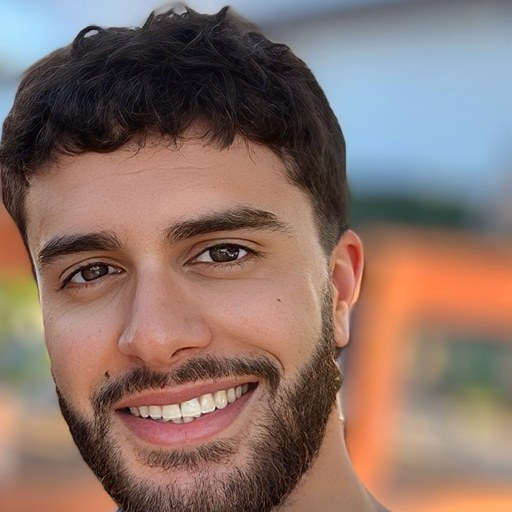
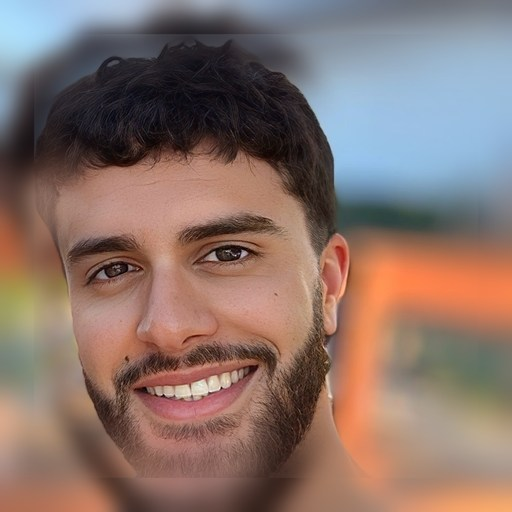
zoom out headshot, nudge it right, fix stale Resume link
- Headshot: zoomed out ~14% with a feathered blur fill so the head has
  breathing room in the circle (no hard seam; second person still out).
- Nudge the About avatar right with a negative right margin.
- About "Resume" line was stale placeholder text; the PDF is in the repo,
  so link it properly.

diff --git a/assets/css/style.css b/assets/css/style.css
@@ -993,7 +993,7 @@ pre code {
   border: 2px solid var(--border);
   box-shadow: var(--shadow);
   float: right;
-  margin: 0.25rem 0 1rem 1.75rem;
+  margin: 0.25rem -2.5rem 1rem 1.75rem;
 }
 
 @media (max-width: 560px) {

diff --git a/about.md b/about.md
@@ -21,7 +21,7 @@ This site is the **plain-English companion** to my [security-lab-portfolio](http
 - **GitHub:** [github.com/barrytd](https://github.com/barrytd)
 - **LinkedIn:** [robert-perezpereda](https://www.linkedin.com/in/robert-perezpereda/)
 - **TryHackMe:** [bxrry](https://tryhackme.com/p/bxrry)
-- **Resume:** *(PDF link to add — drop the file in `/assets/robert-perez-resume.pdf` and update this line)*
+- **Resume:** [robert-perez-resume.pdf]({{ '/assets/robert-perez-resume.pdf' | relative_url }})
 - **Email:** through LinkedIn DM or [opening an issue on the portfolio repo](https://github.com/barrytd/security-lab-portfolio/issues)
 
 ## Certifications